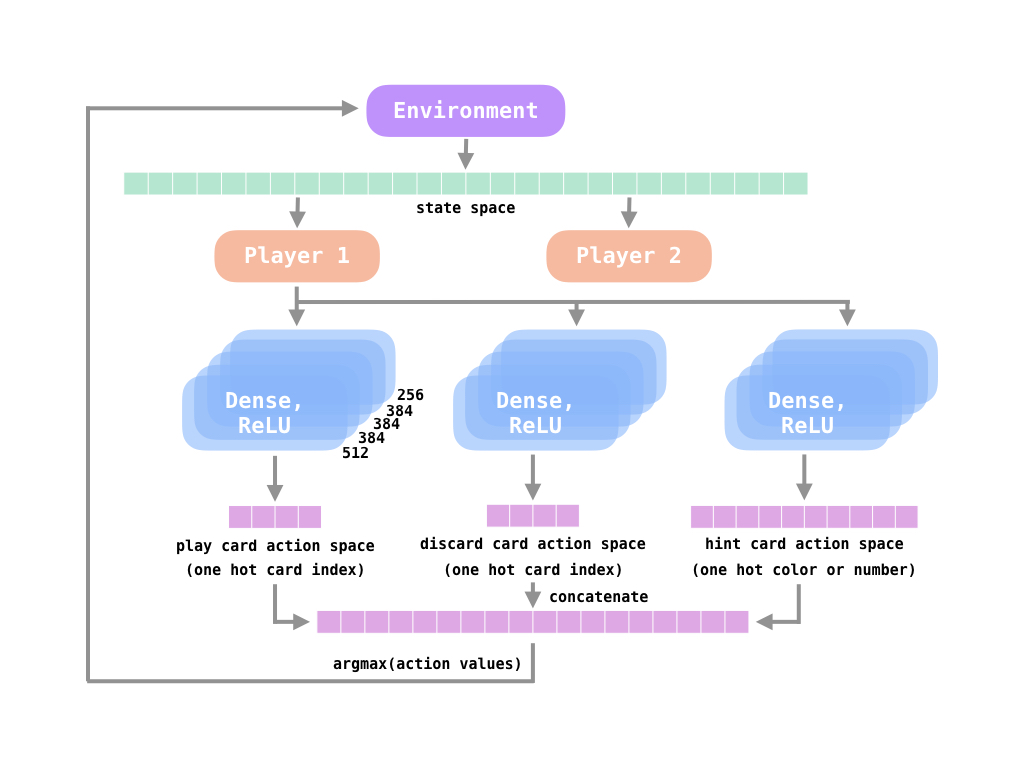
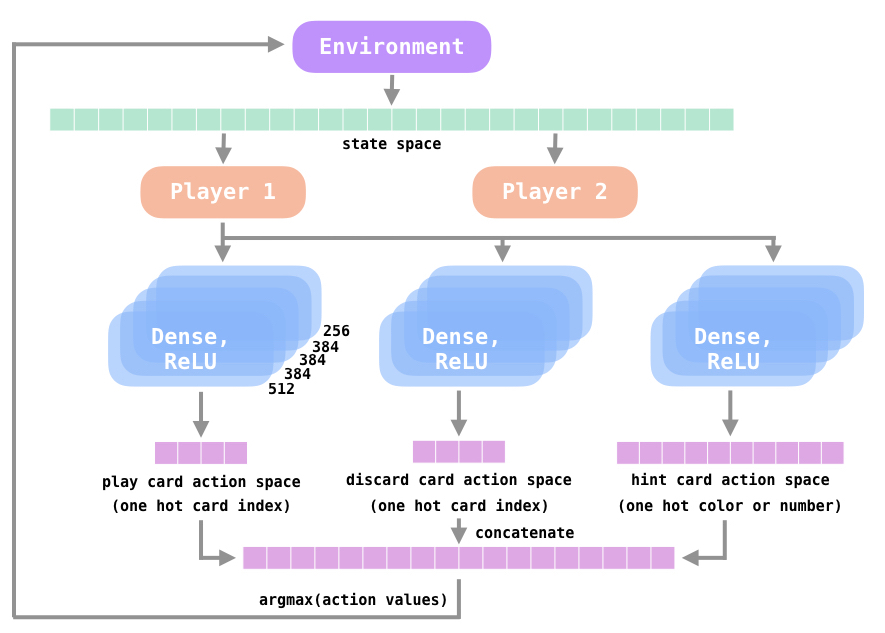
6.S198 Final Project Blog Post edits 2

Changed region(s): [[0.0, 0.03, 0.9763, 0.9905]]

diff --git a/main/6S198hw/final.html b/main/6S198hw/final.html
@@ -48,7 +48,7 @@
 						<h4>Explaining Hanabi</h4>
 							<p class="indented"><i>State Spaces</i></p>
 	            <p class="indented">In reinforcement learning it is common to model games and optimization problems as Markov Decision Processes (MDP). MDPs are a probabilistic framework for modeling situations with discrete, unique states, with transition probabilities between different states.</p>
-							<div class="video"><img src = "../../images/198a.jpg" style="width:500px;"></img></div>
+							<div class="video"><img src = "/images/198a.jpg" style="width:500px;"></img></div>
 							<p class="indented">Further, all states in an MDPs uphold the Markov Property. A Markov Property abiding state `s` is independent of all preceding state such that the next state, `s’`, is only based on `s`. How can we model Hanabi in a similar fashion? For Q-learning and DQN we can gloss over the details of transition probabilities (DQN and Q-Learning in general are model-free and do not learn a transition probability matrix) and focus instead on the states of the problem instead. We call this the state space, specifically the state space of Hanabi.</p>
 
 							<p class="indented"><i>Hanabi State Space</i></p>
@@ -69,7 +69,7 @@
 							<p class="indented"><i>Environment</i></p>
 	            <p class="indented">The environment, HanabiEnv, inherits from the OpenAI environment class. It will create a Hanabi game based on the number of players, max numeric card value, number of colors, and number of cards in a player’s hand. The community game state is a state tuple of the different states of a Hanabi game’s primitive components - that is, we independently manage a state for the deck, firework stack, discard pile, etcetera and the state combination of those parts form a community state. As previously mentioned, the private state (handled in player.py) is then joined with the communal state. Here is a diagram showing how the environment could evolve over time as a result of player actions:</p>
 
-							<div class="video"><img src = "../../images/198b.jpg" style="width:500px;"></img></div>
+							<div class="video"><img src = "/images/198b.jpg" style="width:500px;"></img></div>
 
 							<p class="indented"><i>Player</i></p>
 	            <p class="indented">The player, Player, is a generic state-space manager for a player’s private observations. It is built in a generic way such that it does not have to be re-written for every agent that we write. Similar to the environment, the player (private) state is a state tuple of the different states of a player’s relevant observations - in this case, their possible hints, received hints, and (obfuscated) hand. A player is initialized with a player ID and a parameter determining the max size of their hand. Player’s will handle all internal game logic that results from one of the three actions an agent can take (1) playing, (2) discarding, and (3) hinting.</p>
@@ -87,15 +87,15 @@
 							<p class="indented"><i>Web Backend</i></p>
 	            <p class="indented">A Flask backend computes all the game logic and player actions. The game is initialized based on an OpenAI Gym compatible make configuration. The backend is composed of a HanabiEnv and as many Player classes as required by the configuration. The backend determines what kind of algorithm the intelligent agents will use during the game. Human actions are represented through a HumanAgent class that abstracts the client’s chosen actions in an environment-friendly fashion. After every human turn, there is an artificial waiting period for UX purposes before an agent move is automatically executed and handled. The backend environment essentially handles all Hanabi game logic and simply restores the community and player states to the frontend. There are debugging agents implemented in the Flask backend that execute predictable actions to test the React.js frontend. From a high level perspective, the system architecture looks like the diagram shown below. In the future it would be ideal to host this on the internet instead of locally. It may also be interesting to write a tensorflow.js agent as a fun exercise.</p>
 
-							<div class="video"><img src = "../../images/198c.jpg" style="width:500px;"></img></div>
+							<div class="video"><img src = "/images/198c.jpg" style="width:500px;"></img></div>
 
 					<h3>Learning Algorithm</h3>
 						<p class="indented"><i>Overview</i></p>
             <p class="indented">The agent for Hanabi RL, through a neural network, learns implicit values associated with taking actions given the game state. The neural network, called a DQN (Deep Q Network), is approximating what is called the “Q-table,” where Q is a variable assigned canonically to values of taking actions in a reinforcement learning setting. We tried training two different DQN architectures. The first is a single neural network that attempts to translate the state space into the action space through five layers, and the second is a set of three neural networks that each translate the state space into the action space for one of three possible actions. Each of these architectures are outlined below. Whereas each of the inner layers of the network had ReLu activation, the final layer of each neural network consisted of an output layer with linear activation. The state space is a one hot vector consisting of a player’s state and the community state.</p>
 
-					<div class="video"><img src = "../../images/198d.jpg" style="width:500px;"></img></div>
-					<div class="video"><img src = "../../images/198e.jpg" style="width:500px;"></img></div>
-					<div class="video"><img src = "../../images/198f.jpg" style="width:500px;"></img></div>
+					<div class="video"><img src = "/images/198d.jpg" style="width:500px;"></img></div>
+					<div class="video"><img src = "/images/198e.jpg" style="width:500px;"></img></div>
+					<div class="video"><img src = "/images/198f.jpg" style="width:500px;"></img></div>
 
 						<p class="indented"><i>Reward</i></p>
 						<p class="indented">Another important component of training a deep Q network is its reward function. Ideally, we would provide the simplest reward function possible to avoid going down the rabbit hole of searching the large and complex space of possible reward functions. We decided to provide reward +1 for any move that resulted in a correctly placed card in the firework stacks. </p>
